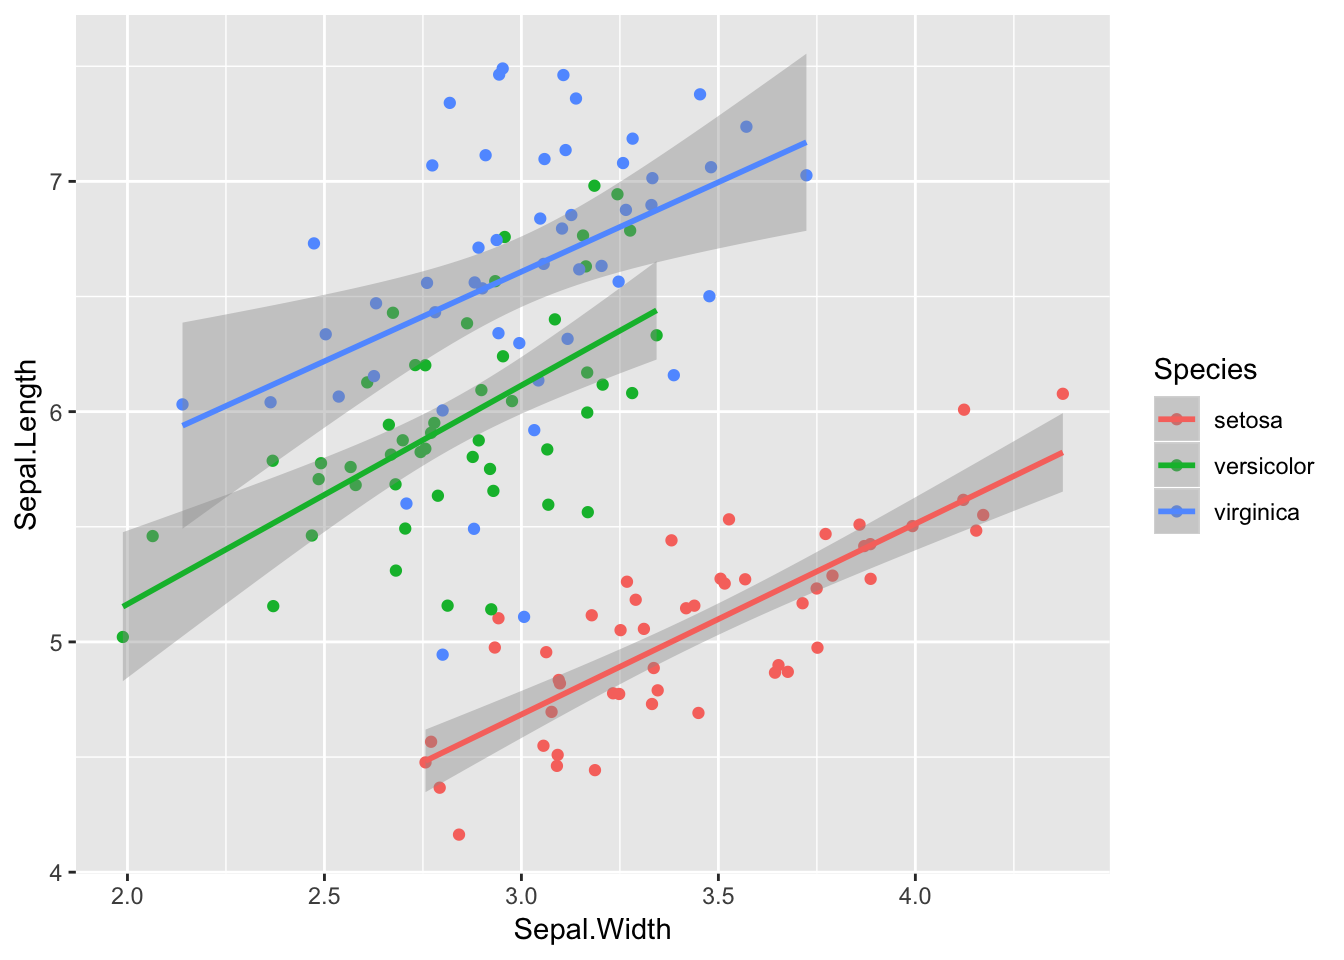
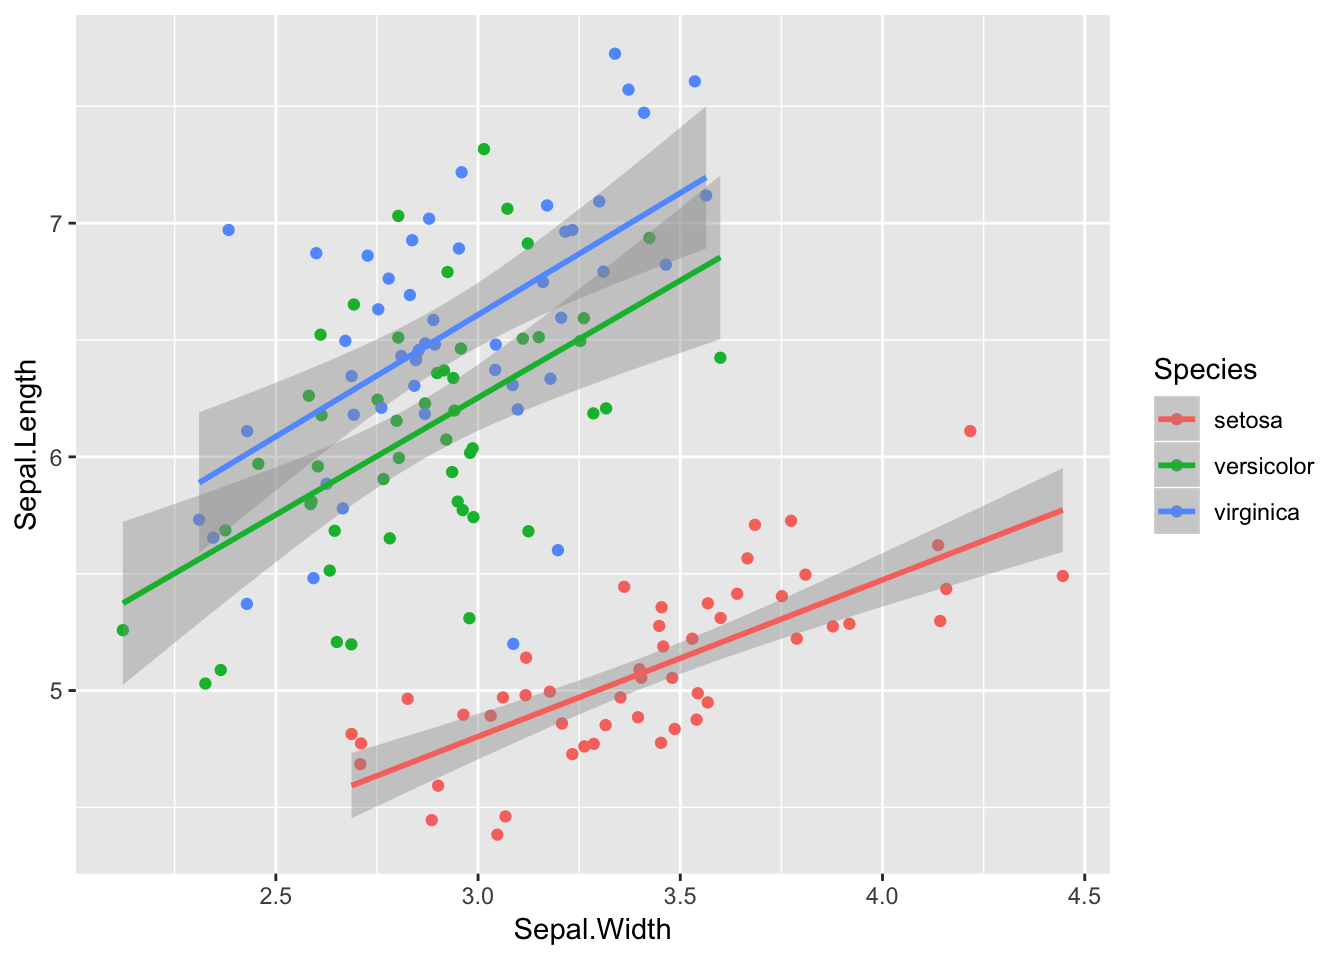
package change to faux

diff --git a/tags/faux/index.html b/tags/faux/index.html
@@ -10,9 +10,9 @@
     <meta name="keywords" content="blog,code">
 
     <base href="/">
-    <title>Tags · Lisa DeBruine</title>
+    <title>Tag: Faux · Lisa DeBruine</title>
 
-    <link rel="canonical" href="/tags/">
+    <link rel="canonical" href="/tags/faux/">
 
     <link href="https://fonts.googleapis.com/css?family=Lato:400,700|Merriweather:300,700|Source+Code+Pro:400,700" rel="stylesheet">
     <link rel="stylesheet" href="https://use.fontawesome.com/releases/v5.3.1/css/all.css" integrity="sha384-mzrmE5qonljUremFsqc01SB46JvROS7bZs3IO2EmfFsd15uHvIt+Y8vEf7N7fWAU" crossorigin="anonymous" />
@@ -42,8 +42,8 @@
     <link rel="icon" type="image/png" href="/images/favicon-16x16.png" sizes="16x16">
 
     
-      <link href="/tags/index.xml" rel="alternate" type="application/rss+xml" title="Lisa DeBruine" />
-      <link href="/tags/index.xml" rel="feed" type="application/rss+xml" title="Lisa DeBruine" />
+      <link href="/tags/faux/index.xml" rel="alternate" type="application/rss+xml" title="Lisa DeBruine" />
+      <link href="/tags/faux/index.xml" rel="feed" type="application/rss+xml" title="Lisa DeBruine" />
     
 
     <meta name="generator" content="Hugo 0.52" />
@@ -83,92 +83,17 @@
       <div class="content">
         
   <section class="container list">
-  <h1 class="title">Tags</h1>
+  <h1 class="title">Tag: Faux</h1>
   <ul>
     
     <li>
-      <span>2017-06-26</span>
-      <a href="/tags/pca/">Pca</a>
-    </li>
-    
-    <li>
-      <span>2017-11-15</span>
-      <a href="/tags/pedagogy/">Pedagogy</a>
+      <span>2018-12-29</span>
+      <a href="/posts/simdf/">Simulate from Existing Data</a>
     </li>
     
     <li>
       <span>2018-12-22</span>
-      <a href="/tags/pipes/">Pipes</a>
-    </li>
-    
-    <li>
-      <span>2017-10-23</span>
-      <a href="/tags/preregistration/">Preregistration</a>
-    </li>
-    
-    <li>
-      <span>2017-06-26</span>
-      <a href="/tags/princomp/">Princomp</a>
-    </li>
-    
-    <li>
-      <span>2017-06-26</span>
-      <a href="/tags/psych/">Psych</a>
-    </li>
-    
-    <li>
-      <span>2017-09-12</span>
-      <a href="/tags/psych-r-package/">Psych R Package</a>
-    </li>
-    
-    <li>
-      <span>2018-12-29</span>
-      <a href="/tags/r/">R</a>
-    </li>
-    
-    <li>
-      <span>2017-07-14</span>
-      <a href="/tags/recoding/">Recoding</a>
-    </li>
-    
-    <li>
-      <span>2017-06-21</span>
-      <a href="/tags/rep/">Rep</a>
-    </li>
-    
-    <li>
-      <span>2017-06-22</span>
-      <a href="/tags/scale/">Scale</a>
-    </li>
-    
-    <li>
-      <span>0001-01-01</span>
-      <a href="/tags/shiny/">Shiny</a>
-    </li>
-    
-    <li>
-      <span>2018-12-29</span>
-      <a href="/tags/simulation/">Simulation</a>
-    </li>
-    
-    <li>
-      <span>2017-09-12</span>
-      <a href="/tags/spss/">Spss</a>
-    </li>
-    
-    <li>
-      <span>2018-12-22</span>
-      <a href="/tags/tidyverse/">Tidyverse</a>
-    </li>
-    
-    <li>
-      <span>2017-06-23</span>
-      <a href="/tags/treatment/">Treatment</a>
-    </li>
-    
-    <li>
-      <span>2017-10-21</span>
-      <a href="/tags/web/">Web</a>
+      <a href="/posts/rnorm_multi/">Simulating Multiple Vectors</a>
     </li>
     
   </ul>
@@ -177,37 +102,6 @@
 
 
 
-
-<ul class="pagination">
-  
-    
-    <li><a href="/tags/">&laquo;</a></li>
-    
-    <li class="hidden"><a href="/tags/">&lsaquo;</a></li>
-  
-  
-    
-    
-      
-    
-    
-      
-      <li><a href="/tags/">1</a></li>
-      
-    
-  
-    
-    
-      
-    
-    
-      
-      <li>2</li>
-      
-    
-  
-  
-</ul>
 
 
 </section>

diff --git a/posts/rnorm_multi/index.html b/posts/rnorm_multi/index.html
@@ -112,7 +112,7 @@
       <span class="separator">•</span>
     <a href="/tags/simulation/">simulation</a>
       <span class="separator">•</span>
-    <a href="/tags/erstaz/">erstaz</a></div>
+    <a href="/tags/faux/">faux</a></div>
 
         </div>
       </header>
@@ -123,8 +123,8 @@
 
 <pre class="r"><code># devtools::install_github(&quot;debruine/ersatz&quot;)
 library(tidyverse)
-library(ersatz)</code></pre>
-<p>I’m working on a package for simulations called <a href="https://github.com/debruine/ersatz">ersatz</a>.</p>
+library(faux)</code></pre>
+<p>I’m working on a package for simulations called <a href="https://github.com/debruine/faux">faux</a>.</p>
 <p>The first function, <code>rnorm_multi</code>, makes multiple normally distributed vectors with specified relationships and takes the following arguments:</p>
 <ul>
 <li><code>n</code> = the number of samples required (required)</li>
@@ -154,19 +154,19 @@ library(ersatz)</code></pre>
 <tr class="odd">
 <td>A</td>
 <td align="right">1.0000000</td>
-<td align="right">0.1423958</td>
-<td align="right">-0.5278862</td>
+<td align="right">0.3101798</td>
+<td align="right">-0.3726928</td>
 </tr>
 <tr class="even">
 <td>B</td>
-<td align="right">0.1423958</td>
+<td align="right">0.3101798</td>
 <td align="right">1.0000000</td>
-<td align="right">0.5462390</td>
+<td align="right">0.5711041</td>
 </tr>
 <tr class="odd">
 <td>C</td>
-<td align="right">-0.5278862</td>
-<td align="right">0.5462390</td>
+<td align="right">-0.3726928</td>
+<td align="right">0.5711041</td>
 <td align="right">1.0000000</td>
 </tr>
 </tbody>
@@ -246,29 +246,29 @@ iris_sim &lt;- rnorm_multi(
 <tr class="odd">
 <td>Sepal.Length</td>
 <td align="right">1.0000000</td>
-<td align="right">-0.1091806</td>
-<td align="right">0.8834174</td>
-<td align="right">0.8361393</td>
+<td align="right">-0.1668810</td>
+<td align="right">0.8977421</td>
+<td align="right">0.8560029</td>
 </tr>
 <tr class="even">
 <td>Sepal.Width</td>
-<td align="right">-0.1091806</td>
+<td align="right">-0.1668810</td>
 <td align="right">1.0000000</td>
-<td align="right">-0.3594782</td>
-<td align="right">-0.2695271</td>
+<td align="right">-0.4720849</td>
+<td align="right">-0.4203363</td>
 </tr>
 <tr class="odd">
 <td>Petal.Length</td>
-<td align="right">0.8834174</td>
-<td align="right">-0.3594782</td>
+<td align="right">0.8977421</td>
+<td align="right">-0.4720849</td>
 <td align="right">1.0000000</td>
-<td align="right">0.9623095</td>
+<td align="right">0.9614653</td>
 </tr>
 <tr class="even">
 <td>Petal.Width</td>
-<td align="right">0.8361393</td>
-<td align="right">-0.2695271</td>
-<td align="right">0.9623095</td>
+<td align="right">0.8560029</td>
+<td align="right">-0.4203363</td>
+<td align="right">0.9614653</td>
 <td align="right">1.0000000</td>
 </tr>
 </tbody>

diff --git a/posts/simdf/index.html b/posts/simdf/index.html
@@ -110,7 +110,7 @@
       <span class="separator">•</span>
     <a href="/tags/simulation/">simulation</a>
       <span class="separator">•</span>
-    <a href="/tags/ersatz/">ersatz</a></div>
+    <a href="/tags/faux/">faux</a></div>
 
         </div>
       </header>
@@ -120,9 +120,9 @@
 
 
 <pre class="r"><code># devtools::install_github(&quot;debruine/ersatz&quot;)
-library(ersatz)
+library(faux)
 library(tidyverse)</code></pre>
-<p>I added a new function to the package <a href="https://github.com/debruine/ersatz"><code>ersatz</code></a> to generate a new dataframe from an existing dataframe, simulating all numeric columns from normal distributions with the same mean and SD as the existing data and the same correlation structure as the existing data.</p>
+<p>I added a new function to the package <a href="https://github.com/debruine/faux"><code>faux</code></a> to generate a new dataframe from an existing dataframe, simulating all numeric columns from normal distributions with the same mean and SD as the existing data and the same correlation structure as the existing data.</p>
 <p>For example, here is the relationship between speed and distance in the built-in dataset <code>cars</code>.</p>
 <pre class="r"><code>cars %&gt;%
   ggplot(aes(speed, dist)) + 

diff --git a/tags/index.html b/tags/index.html
@@ -137,18 +137,13 @@
     </li>
     
     <li>
-      <span>2018-12-29</span>
-      <a href="/tags/ersatz/">Ersatz</a>
-    </li>
-    
-    <li>
-      <span>2018-12-22</span>
-      <a href="/tags/erstaz/">Erstaz</a>
-    </li>
-    
-    <li>
       <span>2017-06-26</span>
       <a href="/tags/factanal/">Factanal</a>
+    </li>
+    
+    <li>
+      <span>2018-12-29</span>
+      <a href="/tags/faux/">Faux</a>
     </li>
     
     <li>
@@ -184,6 +179,11 @@
     <li>
       <span>2017-08-21</span>
       <a href="/tags/nest/">Nest</a>
+    </li>
+    
+    <li>
+      <span>2017-07-27</span>
+      <a href="/tags/p-value/">P Value</a>
     </li>
     
   </ul>

diff --git a/tags/faux/page/1/index.html b/tags/faux/page/1/index.html
@@ -1,0 +1,1 @@
+<!DOCTYPE html><html><head><title>/tags/faux/</title><link rel="canonical" href="/tags/faux/"/><meta name="robots" content="noindex"><meta charset="utf-8" /><meta http-equiv="refresh" content="0; url=/tags/faux/" /></head></html>
